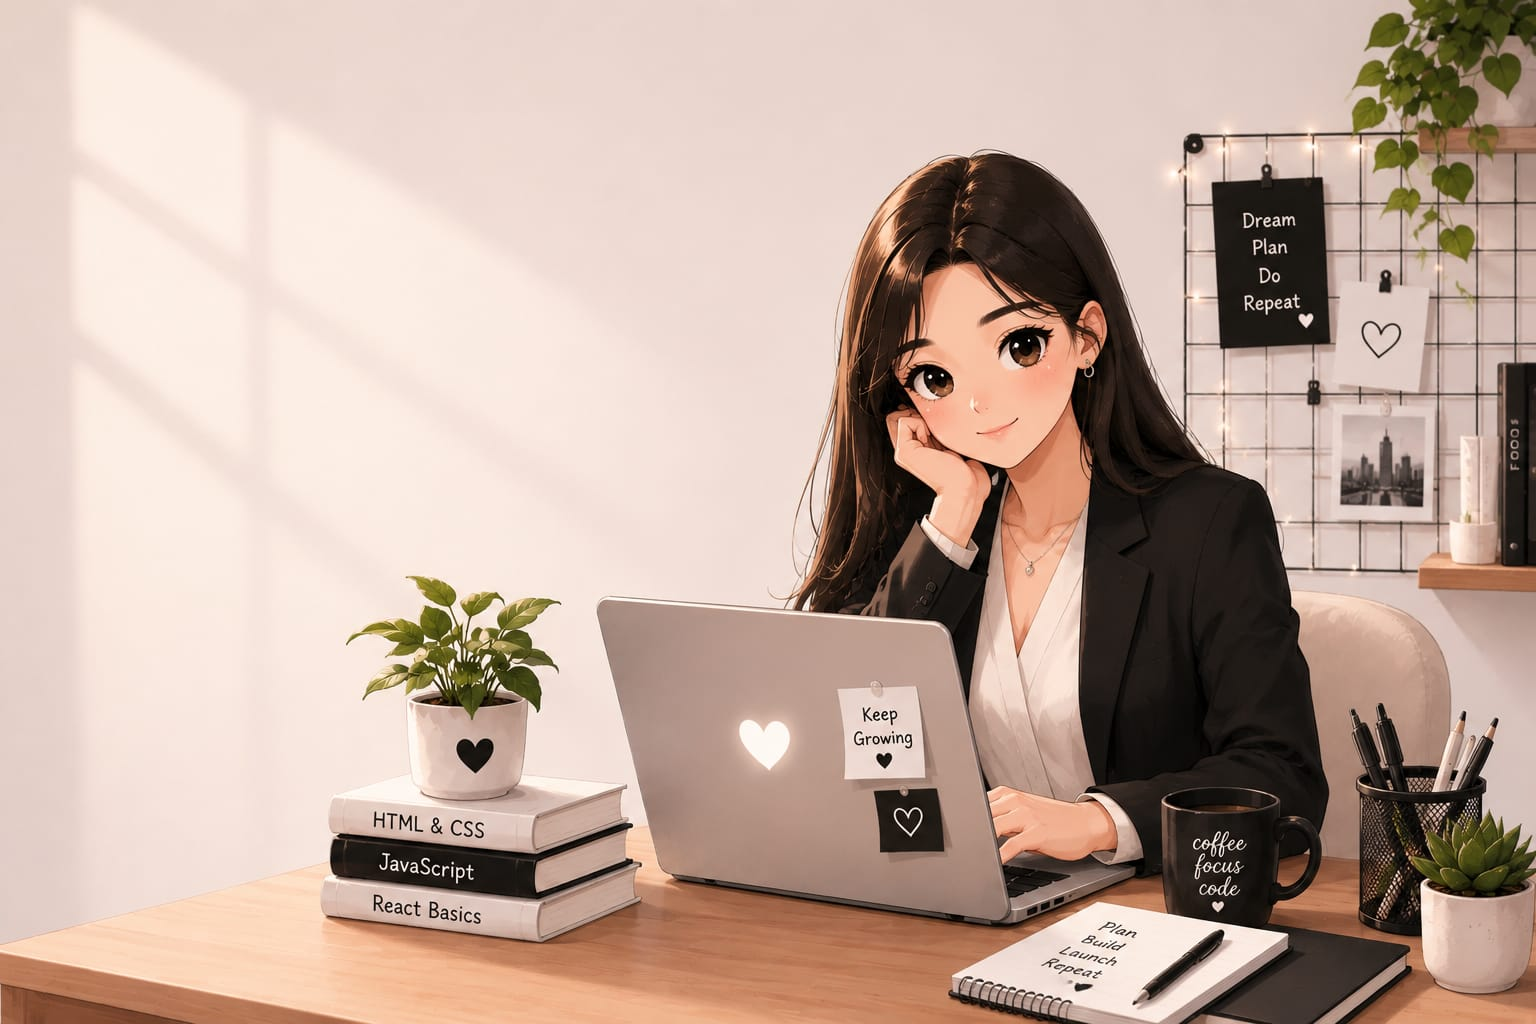
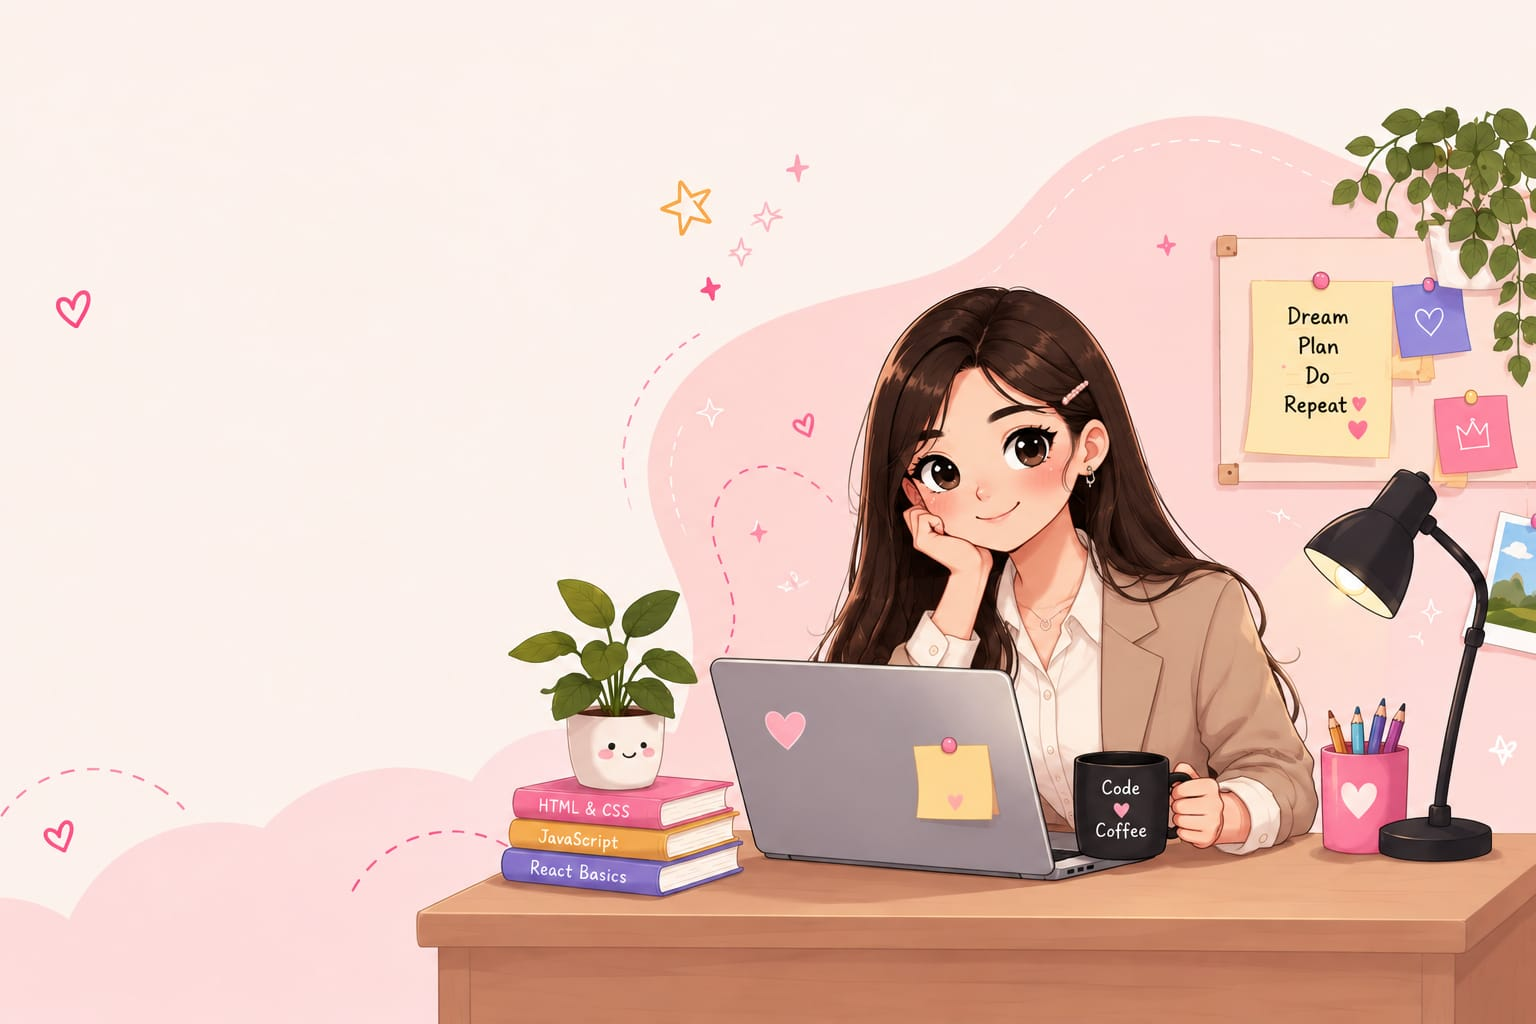
added classes for css styling

diff --git a/index.html b/index.html
@@ -1,18 +1,17 @@
 <!DOCTYPE html>
 <html lang="en">
-
 <head>
     <meta charset="UTF-8">
     <meta name="viewport" content="width=device-width, initial-scale=1.0">
     <title>Kinza Imtiaz | Developer Portfolio</title>
+    <link rel="stylesheet" href="styles.css">
 </head>
-
 <body>
 
-    <header>
-        <p><strong>KI</strong> Kinza Imtiaz</p>
-        <nav aria-label="Primary navigation">
-            <ul>
+    <header class="site-header">
+        <p class="logo"><strong>KI</strong> Kinza Imtiaz</p>
+        <nav class="primary-nav" aria-label="Primary navigation">
+            <ul class="nav-links">
                 <li><a href="#home">Home</a></li>
                 <li><a href="#about">About</a></li>
                 <li><a href="#skills">Skills</a></li>
@@ -22,10 +21,12 @@
                 <li><a href="#contact">Contact</a></li>
             </ul>
         </nav>
-        <nav aria-label="Social links">
-            <ul>
+        <nav class="social-nav" aria-label="Social links">
+            <ul class="social-links">
+                <li><a href="#home">Home</a></li>
                 <li><a href="https://github.com/kinzadev-26" target="_blank">GitHub</a></li>
                 <li><a href="https://linkedin.com/in/kinza-imtiaz-454656370" target="_blank">LinkedIn</a></li>
+                <li><a href="https://www.instagram.com/kiziii26?stkn=bTFlc2tzeHBrbzJy" target="_blank">Instagram</a></li>
                 <li><a href="mailto:kinzaimtiaz313@gmail.com">Email</a></li>
             </ul>
         </nav>
@@ -33,40 +34,38 @@
 
     <main>
 
-        <section id="home" aria-label="Introduction">
-            <p>Hello, I'm</p>
-            <h1>Kinza Imtiaz</h1>
-            <p>IT Student &bull; Web Developer &bull; Always Learning, Always Shipping</p>
-            <p>Turning what I learn into real projects &mdash; currently exploring system design and backend scaling.
-            </p>
-            <p>
-                <a href="#projects">View My Work</a>
-                &nbsp;|&nbsp;
-                <a href="Kinza_Imtiaz.pdf" download>Download CV</a>
-            </p>
-            <img src="images/hero-image.jpeg" alt="Hero background">
-            <ul aria-label="Personal motto">
-                <li>Dream</li>
-                <li>Plan</li>
-                <li>Do</li>
-                <li>Repeat</li>
-            </ul>
+        <section id="home" class="hero" aria-label="Introduction">
+            <div class="hero-text">
+                <p class="hero-greeting">Hello, I'm</p>
+                <h1>Kinza Imtiaz</h1>
+                <p class="hero-tagline">IT Student &bull; Web Developer &bull; Always Learning, Always Shipping</p>
+                <p class="hero-summary">Turning what I learn into real projects &mdash; currently exploring system design and backend scaling.</p>
+                <div class="hero-buttons">
+                    <a href="#projects" class="btn btn-solid">View My Work</a>
+                    <a href="Kinza_Imtiaz.pdf" download class="btn btn-outline">Download CV</a>
+                </div>
+            </div>
+            <div class="hero-visual">
+                <img src="images/hero-image.jpeg" alt="Hero image">
+            </div>
         </section>
-        <section id="about">
-            <img src="images/about.jpeg" alt="About me">
+
+        <div class="cards-grid">
+
+        <section id="about" class="card">
+            
             <h2>About Me</h2>
-            <p>Enthusiastic and detail-oriented Information Technology undergraduate with strong interest in software
-                engineeringand web development. Passionate about Learning modern technologies and applying technical
-                skills to build efficient, user-focused applications while growing as a developer.</p>
+            <p>Enthusiastic and detail-oriented Information Technology undergraduate with a strong interest in software engineering and web development. Passionate about learning modern technologies and applying technical skills to build efficient, user-focused applications while growing as a developer.</p>
         </section>
-        <section id="skills">
-            <img src="images/skills.jpeg" alt="Skills icon">
+
+        <section id="skills" class="card">
+            
             <h2>Skills</h2>
-            <p>Technologies and tools i work with.</p>
+            <p>Technologies and tools I work with.</p>
             <ul>
                 <li>HTML5 &amp; CSS3</li>
                 <li>JavaScript &amp; TypeScript</li>
-                <li>React &amp; TypeScript</li>
+                <li>React &amp; Next.js</li>
                 <li>Node.js, Express &amp; Nest.js</li>
                 <li>MongoDB, MySQL, PostgreSQL &amp; SQL</li>
                 <li>Tailwind CSS &amp; Bootstrap</li>
@@ -75,8 +74,8 @@
             </ul>
         </section>
 
-        <section id="education">
-            <img src="images/education.jpeg" alt="Education icon">
+        <section id="education" class="card">
+            
             <h2>Education</h2>
             <table>
                 <caption>Academic Background</caption>
@@ -100,98 +99,98 @@
                     </tr>
                     <tr>
                         <td>Matriculation</td>
-                        <td>Milat Ideal Higher Secondary School and College, Gujranwala</td>
+                        <td>Millat Ideal Higher Secondary School and College, Gujranwala</td>
                         <td>2018&ndash;2020</td>
                     </tr>
                 </tbody>
             </table>
         </section>
 
-        <section id="experience">
-            <img src="images/experience.jpeg" alt="Experience icon">
+        <section id="experience" class="card card-wide">
+        
             <h2>Experience</h2>
             <article>
-                <h3>Full-Stack Engineering Intern &mdash;AUREX (Current)</h3>
-                <p>Currently building frontend foundations: Git/GitHub workflows, HTML5 structure, and semantic,
-                    accessible markup.</p>
+                <h3>Full-Stack Engineering Intern &mdash; AUREX (Current)</h3>
+                <p>Currently building frontend foundations: Git/GitHub workflows, HTML5 structure, and semantic, accessible markup.</p>
             </article>
             <article>
-                <h3>Frontend Developer Intern &mdash;DevelopersHub Corporation (Remote, 2 months)</h3>
+                <h3>Frontend Developer Intern &mdash; DevelopersHub Corporation (Remote, 2 months)</h3>
                 <ul>
-                    <li>Developed responsive and user-friendly web interfaces using HTML, CSS, JavaScript.</li>
+                    <li>Developed responsive and user-friendly web interfaces using HTML, CSS, and JavaScript.</li>
                     <li>Collaborated with team members to implement UI designs and improve user experience.</li>
-                    <li>Participated in code reviews and gained experience working in a remote development enviornment.
-                    </li>
+                    <li>Participated in code reviews and gained experience working in a remote development environment.</li>
                 </ul>
             </article>
-
             <article>
                 <h3>MERN Stack Intern &mdash; DawoodTech (Remote, 2 months)</h3>
                 <ul>
-                    <li>Assisted in developing full-stack web applications using the MERN stack. </li>
-                    <li>Worked with React.js, Node.js, Nest.js, Express.js and MongoDB to build and maintain application
-                        features.</li>
+                    <li>Assisted in developing full-stack web applications using the MERN stack.</li>
+                    <li>Worked with React.js, Node.js, Nest.js, Express.js, and MongoDB to build and maintain application features.</li>
                     <li>Collaborated with mentors on project development, debugging, and testing.</li>
                 </ul>
             </article>
         </section>
 
-        <section id="projects">
-            <img src="images/projects.jpeg" alt="Projects icon">
+        <section id="projects" class="card card-wide">
+        
             <h2>Projects</h2>
             <p>Explore my latest work and case studies.</p>
-            <article>
-                <h3>DevelopersHub Website</h3>
-                <p>Frontend internship task &mdash; a website build with HTML.</p>
-                <a href="https://github.com/kinzadev-26/developershub-website" target="_blank">View on GitHub</a>
-            </article>
-            <article>
-                <h3>kiz.dev Portfolio</h3>
-                <p>Personal developer portfolio project build with JavaScript.</p>
-                <a href="https://github.com/kinzadev-26/kiz.dev-portfolio" target="_blank">View on GitHub</a>
-            </article>
-            <article>
-                <h3>MERN Dashboard</h3>
-                <p>A dashboard application built using the MERN stack.</p>
-                <a href="https://github.com/kinzadev-26/mern-Dashboard" target="_blank">View on GitHub</a>
-            </article>
-            <article>
-                <h3>User Management API</h3>
-                <p>A backend API for managing users, built with TypeScript.</p>
-                <a href="https://github.com/kinzadev-26/user-management-api" target="_blank">View on GitHub</a>
-            </article>
+            <div class="project-list">
+                <article>
+                    <h3>DevelopersHub Website</h3>
+                    <p>Frontend internship task &mdash; a website built with HTML.</p>
+                    <a href="https://github.com/kinzadev-26/developershub-website" target="_blank">View on GitHub</a>
+                </article>
+                <article>
+                    <h3>Kiz.dev Portfolio</h3>
+                    <p>Personal developer portfolio project built with JavaScript.</p>
+                    <a href="https://github.com/kinzadev-26/kiz.dev-portfolio" target="_blank">View on GitHub</a>
+                </article>
+                <article>
+                    <h3>MERN Dashboard</h3>
+                    <p>A dashboard application built using the MERN stack.</p>
+                    <a href="https://github.com/kinzadev-26/mern-Dashboard" target="_blank">View on GitHub</a>
+                </article>
+                <article>
+                    <h3>User Management API</h3>
+                    <p>A backend API for managing users, built with TypeScript.</p>
+                    <a href="https://github.com/kinzadev-26/user-management-api" target="_blank">View on GitHub</a>
+                </article>
+            </div>
         </section>
-        <section id="contact">
-            <img src="images/contact.jpeg" alt="Contact icon">
+
+        <section id="contact" class="card card-wide">
+        
             <h2>Contact</h2>
-            <p>Let's connect and built something amazing.</p>
-            <p>
-                Gujranwala, Pakistan &bull; 03256125262 &bull;
+            <p>Let's connect and build something amazing.</p>
+            <p class="contact-details">
+                Gujranwala, Pakistan &bull; 0325-6125262 &bull;
                 <a href="mailto:kinzaimtiaz313@gmail.com">kinzaimtiaz313@gmail.com</a>
             </p>
-            <form action="#" method="post">
+            <form action="#" method="post" class="contact-form">
                 <p>
-                    <label for="name">Name</label><br>
+                    <label for="name">Name</label>
                     <input type="text" id="name" name="name" required>
                 </p>
                 <p>
-                    <label for="email">Email</label><br>
+                    <label for="email">Email</label>
                     <input type="email" id="email" name="email" required>
                 </p>
                 <p>
-                    <label for="message">Message</label><br>
-                    <textarea name="message" id="message" rows="5" required></textarea>
+                    <label for="message">Message</label>
+                    <textarea id="message" name="message" rows="5" required></textarea>
                 </p>
-                <button type="submit">Send Message</button>
+                <button type="submit" class="btn btn-solid">Send Message</button>
             </form>
         </section>
+
+        </div>
+
     </main>
 
-    <footer>
-        <p>
-            &copy; 2026 Kinza Imtiaz. all rights are reserved.
-        </p>
+    <footer class="site-footer">
+        <p>&copy; 2026 Kinza Imtiaz. All rights reserved.</p>
     </footer>
-</body>
 
+</body>
 </html>
